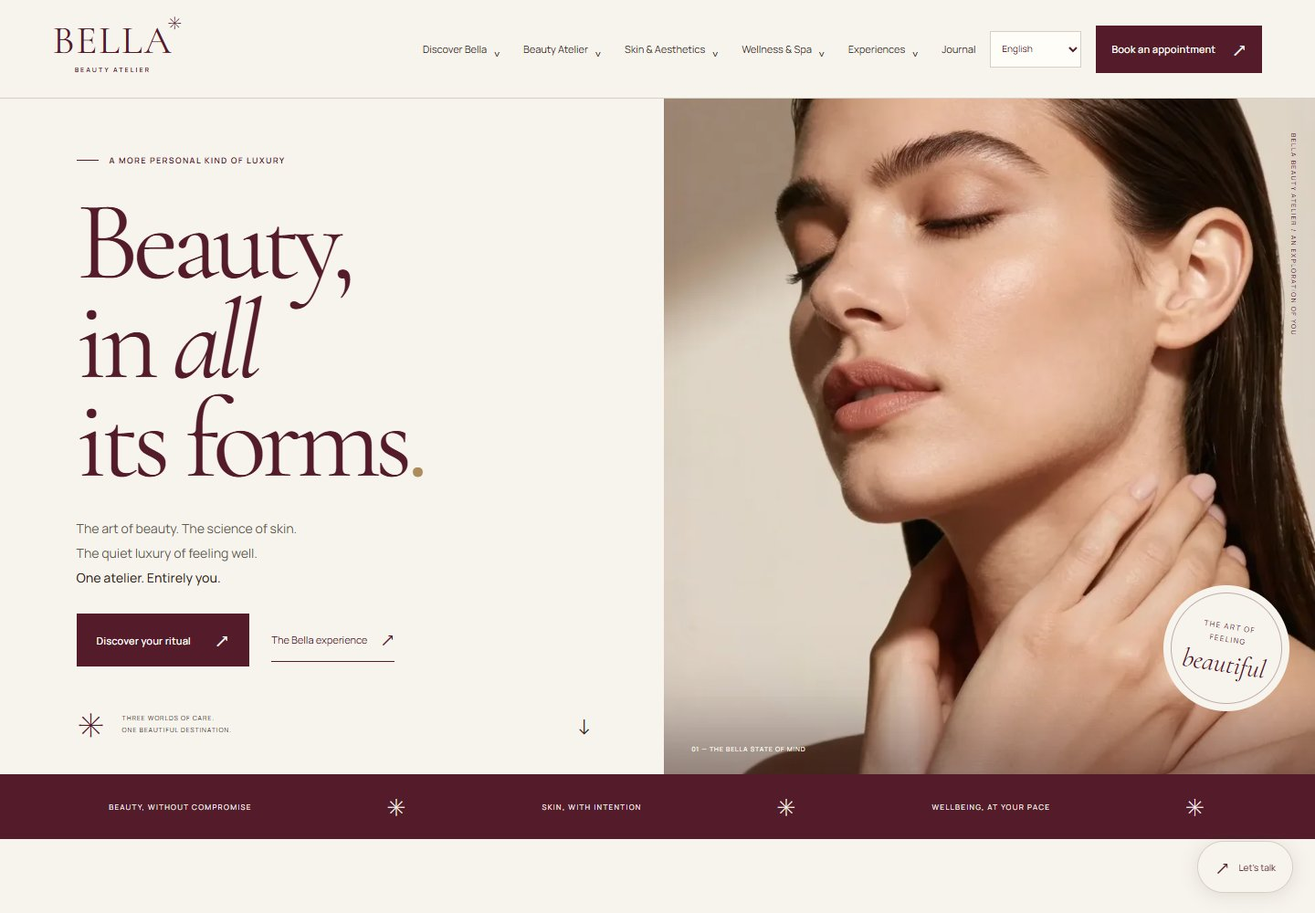
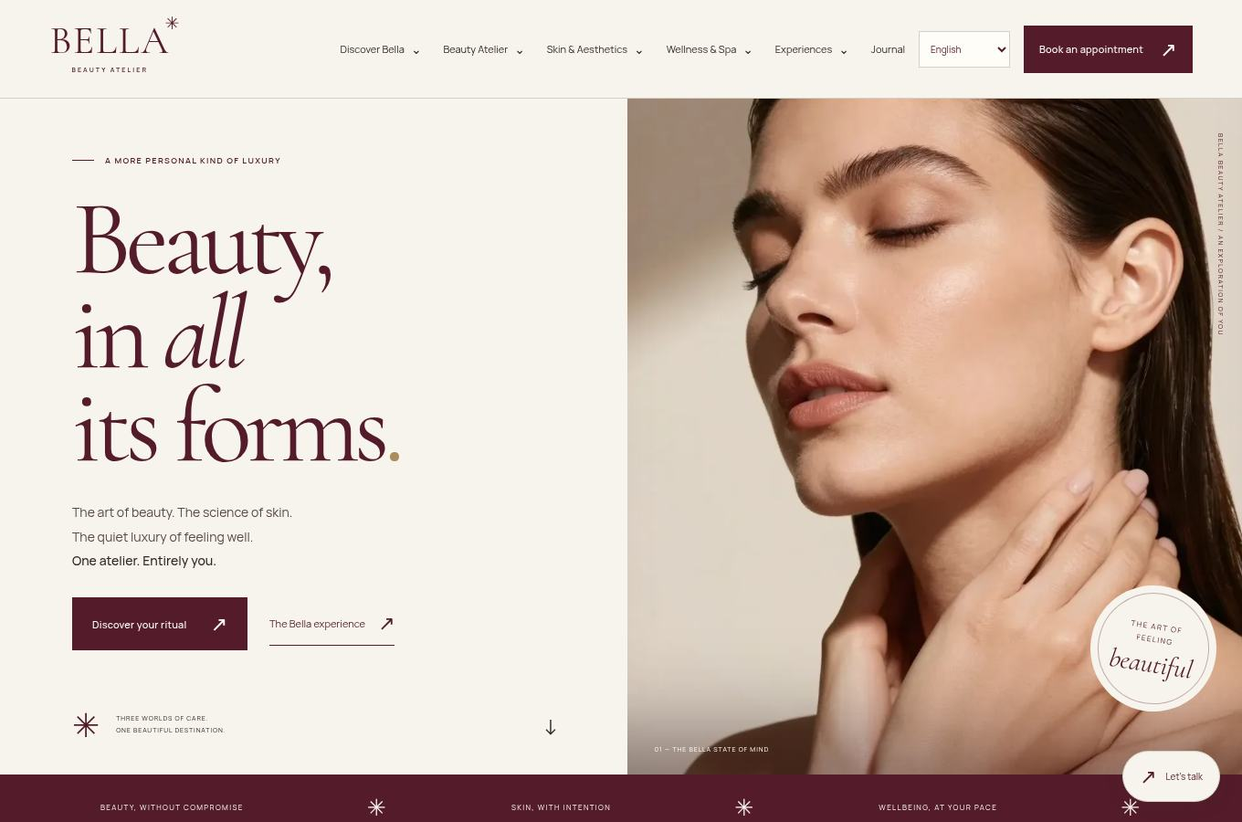
Expand full Wikcia portfolio with authentic screenshots (#2)
* Expand portfolio with real DearRose, KERN and ATLAS captures, full project gallery and engineering archive

* Refresh every public portfolio homepage capture and use branded live domains

diff --git a/src/pages/ExperiencePages.tsx b/src/pages/ExperiencePages.tsx
@@ -6,7 +6,9 @@ import { ProjectPreview, Workflow } from '@/pages/ExperienceHome';
 
 export function PageIntro({eyebrow,title,description,accent}:{eyebrow:string;title:string;description:string;accent?:string}){return <div className="page-intro section-pad"><span className="eyebrow">{eyebrow}</span><h1>{title}{accent&&<><br/><span className="serif-word">{accent}</span></>}</h1><p>{description}</p></div>}
 export function AboutPage(){return <><PageIntro eyebrow="INSIDE WIKCIA / THE IDEA" title="An imaginative mind." accent="A practical instinct." description="Wikcia is an expanding family of agentic software and business applications by Love & Pixels. Our work connects creative direction, software engineering and practical automation."/><section className="about-editorial section-pad"><div className="about-emblem"><img src="/logo.png" alt="Wikcia’s folded pearl-and-lavender ribbon mark with a lime orb" width="600" height="600"/><span className="eyebrow">A CONTINUOUS THREAD / MANY POSSIBILITIES</span></div><div className="prose"><h2>More than a conversation.</h2><p className="lead">The interesting part isn’t that I can talk about the work. It’s that I can help do it.</p><p>Wikcia Studio connects an assistant with the applications, tools and working context needed to create useful outcomes. That can mean designing a website, exploring a question, writing and testing software, processing media or connecting a repeated business workflow.</p><p>Some work happens through native tools. Some uses supported application adapters or authorised integrations. The available capabilities depend on the real environment—not on a promise that every tool is always connected.</p><Link to="/tools" className="text-link">Look inside the toolkit <Arrow/></Link></div></section><section className="about-principles section-pad" id="principles"><span className="eyebrow">THE PRINCIPLES / NOT OPTIONAL EXTRAS</span><h2>Powerful should still<br/><span className="serif-word">feel considered.</span></h2><div className="principle-rows"><article><span>01</span><h3>Show the work.</h3><p>A source, an artifact, a test, a result. Evidence matters more than a confident completion message.</p></article><article><span>02</span><h3>Keep people in control.</h3><p>Prepare and automate within scope. Ask before spending, making sensitive changes or taking important irreversible actions.</p></article><article><span>03</span><h3>Be precise about privacy.</h3><p>Local and cloud are different paths. The model, the conversation and each connected service all matter.</p></article><article><span>04</span><h3>Make it coherent.</h3><p>Design and engineering belong in the same conversation. A useful thing should work well and feel right.</p></article></div></section><section className="foundation section-pad"><span className="eyebrow">THE FOUNDATION / WITH CREDIT</span><h2>Made by Love & Pixels.<br/>Built on good foundations.</h2><div className="foundation-copy"><p>Wikcia Studio is Love & Pixels’ customised creative and automation environment. Its technical foundation is Hermes Agent, developed by Nous Research. The Wikcia identity, workflows and extensions build on that foundation.</p><div><a className="text-link" href="https://byloveandpixels.com" target="_blank" rel="noopener noreferrer">Meet Love & Pixels <Arrow/></a><a className="text-link" href="https://hermes-agent.nousresearch.com/" target="_blank" rel="noopener noreferrer">Explore Hermes Agent <Arrow/></a></div></div></section></>}
-export function ShowcasePage(){return <><PageIntro eyebrow="SELECTED WORK / THE LOVE & PIXELS UNIVERSE" title="Proof of imagination." accent="Room to explore." description="Different briefs deserve different worlds. A selection of studio work and digital concepts, shown as they actually exist—not as stock-photo placeholders."/><div className="showcase-grid section-pad">{projects.map((p,i)=><ProjectPreview key={p.id} index={i} large={i===0}/>)}</div><section className="section-pad"><span className="eyebrow">CLIENT ENGINEERING / SOFTWARE DELIVERY</span><article className="eco-case"><div><span className="eyebrow">MULTILINGUAL COMMERCE / CLIENT REVIEW BUILD</span><h3>Custom embroidery commerce.</h3><p>A multilingual storefront and owner administration system built around personalised products and configurable merchandise.</p><p className="eco-evidence">Review-stage implementation; merchant onboarding and live checkout are separate launch gates. Client identity and private screenshots withheld pending publication clearance.</p></div><div><h3>What was built</h3><ul><li>Polish, Dutch and English storefront and administration</li><li>Product customisation and draft catalogue</li><li>Owner authentication and product / website management</li><li>Dedicated database and controlled payment integration</li></ul><Link className="text-link" to="/contact?interest=Commerce%20platform">Discuss a commerce project <Arrow/></Link></div></article></section><div className="portfolio-footnote section-pad"><span className="eyebrow">AN HONEST FOOTNOTE</span><p>The public concept cards use existing website captures and links. The commerce project is a review-stage implementation; private client evidence is not published. Concept projects are labelled individually. They demonstrate design and engineering, not real commercial appointments, customer results or measured revenue.</p></div></>}
+const portfolioLabs=[{name:'LPX AI Design Station',kind:'Local MVP / applied AI',description:'Project workspaces, bounded local model execution, reviewable artifacts, module management and a personalised website studio with exportable multi-page builds.'},{name:'Still & Co.',kind:'Local concept / cleaning services',description:'Five routed pages, original procedural 3D living room, accessible navigation and a validated local quote demonstration.'},{name:'VANTA Motor',kind:'Source archive / automotive concept',description:'Fictional automotive web experience, preserved as a private source snapshot. No live inventory or dealership operation claimed.'},{name:'LPX Swarm',kind:'Engineering research / orchestration',description:'Python-based orchestration source and unit-test foundation; an internal engineering project rather than a hosted product.'},{name:'Wikcia Studio Installer',kind:'Distribution engineering',description:'Windows installation scripts, pinned payload checksums, release locking and recovery components. Installation access is handled separately.'}];
+function PortfolioLab(){return <section className="section-pad portfolio-lab"><span className="eyebrow">ENGINEERING ARCHIVE / LOCAL &amp; PRIVATE BUILDS</span><h2>More beneath the surface.</h2><p>Additional documented projects in our engineering portfolio. These are not presented as public deployments; screenshots are withheld where no safe public interface is available.</p><div className="portfolio-lab-grid">{portfolioLabs.map(p=><article key={p.name}><span className="eyebrow">{p.kind}</span><h3>{p.name}</h3><p>{p.description}</p></article>)}</div></section>}
+export function ShowcasePage(){const [filter,setFilter]=useState('All');const filters=['All','AI & SaaS','Commerce','Automotive','Beauty','Home services','Studio'];const ids:Record<string,string[]>={'AI & SaaS':['dearrose','referrals'],Commerce:['kern'],Automotive:['onyx'],Beauty:['bella'],'Home services':['atlas'],Studio:['love-and-pixels']};const shown=projects.map((p,i)=>({p,i})).filter(({p})=>filter==='All'||ids[filter]?.includes(p.id));return <><PageIntro eyebrow="PORTFOLIO / THE LOVE & PIXELS UNIVERSE" title="The work." accent="Real interfaces." description="Our products, client projects, digital concepts and engineering research. Explore the actual sites and the systems we build behind them."/><section className="section-pad portfolio-gallery"><div className="eco-filters" aria-label="Filter portfolio">{filters.map(f=><button key={f} onClick={()=>setFilter(f)} aria-pressed={filter===f}>{f}</button>)}</div><p className="portfolio-count" role="status">{shown.length} public showcase{shown.length===1?"":"s"}</p><div className="showcase-grid portfolio-grid">{shown.map(({p,i},n)=><ProjectPreview key={p.id} index={i} large={n===0}/>)}</div></section><section className="section-pad"><span className="eyebrow">CLIENT ENGINEERING / SOFTWARE DELIVERY</span><article className="eco-case"><div><span className="eyebrow">MULTILINGUAL COMMERCE / CLIENT REVIEW BUILD</span><h3>Custom embroidery commerce.</h3><p>A multilingual storefront and owner administration system built around personalised products and configurable merchandise.</p><p className="eco-evidence">Review-stage implementation; merchant onboarding and live checkout are separate launch gates. Client identity and private screenshots withheld pending publication clearance.</p></div><div><h3>What was built</h3><ul><li>Polish, Dutch and English storefront and administration</li><li>Product customisation and draft catalogue</li><li>Owner authentication and product / website management</li><li>Dedicated database and controlled payment integration</li></ul><Link className="text-link" to="/contact?interest=Commerce%20platform">Discuss a commerce project <Arrow/></Link></div></article></section><PortfolioLab/><div className="portfolio-footnote section-pad"><span className="eyebrow">AN HONEST FOOTNOTE</span><p>Public showcase cards use actual website captures and direct links. DearRose, KERN, ATLAS, ONYX, Bella and Love & Pixels were captured on 25 November 2026. The commerce project is a review-stage implementation; private client evidence is not published. Concept projects are labelled individually. Concepts demonstrate design and engineering, not real commercial appointments, customer results or measured revenue.</p></div></>}
 export function CapabilitiesPage(){const [params,setParams]=useSearchParams();const category=params.get('category')||'All';const [search,setSearch]=useState('');const filtered=capabilities.filter(c=>(category==='All'||c.category===category)&&(c.name+' '+c.detail+' '+c.tools).toLowerCase().includes(search.toLowerCase()));return <><PageIntro eyebrow="CAPABILITIES / A CONNECTED PRACTICE" title="One mind." accent="More ways to make." description="Not a collection of disconnected tricks. A connected approach to creative work, engineering, research and the systems in between."/><section className="directory section-pad"><div className="directory-controls"><div className="filter-buttons" aria-label="Filter capabilities">{['All','Create','Build','Discover','Connect'].map(c=><button key={c} aria-pressed={category===c} onClick={()=>setParams(c==='All'?{}:{category:c})}>{c}</button>)}</div><label className="directory-search"><span className="sr-only">Search capabilities</span><input type="search" placeholder="Find a capability…" value={search} onChange={e=>setSearch(e.target.value)}/><span aria-hidden="true">⌕</span></label></div><p className="directory-count" role="status">{filtered.length} {filtered.length===1?'capability':'capabilities'} / {category}</p><div className="capability-directory">{filtered.map((c,i)=><article key={c.name}><span className="directory-index">{String(i+1).padStart(2,'0')}</span><div><span className="eyebrow">{c.category}</span><h2>{c.name}</h2></div><div><p>{c.detail}</p><span className="capability-tools">{c.tools}</span></div><Link to={`/contact?interest=${encodeURIComponent(c.name)}`} aria-label={`Discuss ${c.name}`}><Arrow/></Link></article>)}{!filtered.length&&<div className="directory-empty"><h2>No matching capabilities.</h2><p>Try another phrase, or clear your filters.</p><button className="button button-dark" onClick={()=>{setSearch('');setParams({});}}>Clear filters</button></div>}</div><p className="quiet-note">Specific applications and services require a compatible installation, credentials and permission. This directory describes areas of work—not a live integration status board.</p></section></>}
 const toolkit=[{number:'01',name:'Think & investigate',intro:'The context comes first.',items:[['Web & browser tools','Search, inspect sources, navigate real pages and exercise browser flows.'],['Document tools','Extract and structure PDFs, office documents and spreadsheets.'],['Model routing','Use supported local or cloud inference paths with explicit privacy boundaries.']]},{number:'02',name:'Create & build',intro:'Ideas need a real medium.',items:[['Creative applications','Supported image, vector, layout, audio and video workflows through native adapters.'],['Code & verification','Source files, version control, builds and tests against actual implementations.'],['Spatial experiences','Original geometry, Three.js and browser graphics for interactive digital work.']]},{number:'03',name:'Connect & operate',intro:'The parts should work together.',items:[['MCP integrations','Structured access to supported services; authentication and tool availability are separate gates.'],['Application Hub','A way to discover, launch and inspect supported applications inside Wikcia Studio.'],['Repeatable workflows','Connect steps with validation, observable results and approval at consequential moments.']]}];
 export function ToolkitPage(){return <><PageIntro eyebrow="THE TOOLKIT / CHOSEN WITH INTENTION" title="Good tools." accent="Better together." description="The useful part is not how many applications you can name. It’s whether the right ones can do the actual work, safely and coherently."/><section className="toolkit section-pad">{toolkit.map(t=><article key={t.number}><div><span className="eyebrow">{t.number} / TOOL FAMILY</span><h2>{t.name}</h2><p>{t.intro}</p></div><div>{t.items.map(([title,detail])=><div className="toolkit-item" key={title}><h3>{title}</h3><p>{detail}</p></div>)}</div></article>)}<div className="boundary-note"><span className="eyebrow">CONNECTION IS NOT PERMISSION.</span><p>A tool being installed is not proof of a working integration. A configured account is not authority to act. Available actions depend on the running environment, authentication and your approved scope.</p></div></section></>}

diff --git a/src/pages/ExperienceHome.tsx b/src/pages/ExperienceHome.tsx
@@ -6,7 +6,7 @@ import { Workbench } from '@/experience/Workbench';
 const SignalScene=lazy(()=>import('@/experience/SignalScene'));
 
 export function Sculpture(){const ref=useRef<HTMLDivElement>(null);const [ready,setReady]=useState(false);useEffect(()=>{const obs=new IntersectionObserver(entries=>{if(entries.some(e=>e.isIntersecting)){setReady(true);obs.disconnect();}},{rootMargin:'200px'});if(ref.current)obs.observe(ref.current);return()=>obs.disconnect();},[]);return <div ref={ref} className="sculpture-mount">{ready?<Suspense fallback={<div className="sculpture-loading"><img src="/logo.png" alt="Wikcia ribbon emblem"/><span className="eyebrow">PREPARING THE RIBBON STUDY</span></div>}><SignalScene/></Suspense>:<div className="sculpture-loading"><img src="/logo.png" alt="Wikcia ribbon emblem"/></div>}</div>}
-export function ProjectPreview({index=0,large=false}:{index?:number;large?:boolean}){const p=projects[index];return <article className={`project-preview ${large?'project-large':''}`}><a className="project-image-link" href={p.url} target="_blank" rel="noopener noreferrer" aria-label={`Visit ${p.name} website (opens in new tab)`}><div className="project-image"><img src={p.image} alt={`${p.name} — actual website homepage`} width="1440" height="1000" loading="lazy"/><span className="project-open"><Arrow/></span></div></a><div className="project-meta"><div><span className="eyebrow">{p.kind}</span><h3><a href={p.url} target="_blank" rel="noopener noreferrer">{p.name} <Arrow/></a></h3></div><span className="project-number">0{index+1}</span></div><p className="project-description">{p.description}</p><div className="project-tags">{p.tags.map(t=><span key={t}>{t}</span>)}</div><p className="project-disclosure">{p.note}</p></article>}
+export function ProjectPreview({index=0,large=false}:{index?:number;large?:boolean}){const p=projects[index];return <article className={`project-preview ${large?'project-large':''}`}><a className="project-image-link" href={p.url} target="_blank" rel="noopener noreferrer" aria-label={`Visit ${p.name} website (opens in new tab)`}><div className="project-image"><img src={p.image} alt={`${p.name} — actual website homepage`} width={1360} height={900} loading="lazy"/><span className="project-open"><Arrow/></span></div></a><div className="project-meta"><div><span className="eyebrow">{p.kind}</span><h3><a href={p.url} target="_blank" rel="noopener noreferrer">{p.name} <Arrow/></a></h3></div><span className="project-number">{String(index+1).padStart(2,"0")}</span></div><p className="project-description">{p.description}</p><div className="project-tags">{p.tags.map(t=><span key={t}>{t}</span>)}</div><p className="project-disclosure">{p.note}</p></article>}
 export function Workflow(){const [active,setActive]=useState(0);const story=workflowStories[active];return <section className="workflow-section section-pad" id="how-it-works"><div className="section-heading"><span className="eyebrow">03 / THE WORK BEHIND THE WORDS</span><div className="heading-row"><h2>Not just an answer.<br/><span className="muted-type">A way forward.</span></h2><p>I connect the thinking to the doing.<br/>A clear brief. The right tools. A result<br className="desktop-break"/> you can actually inspect.</p></div></div><div className="workflow-layout"><div className="workflow-choices" role="tablist" aria-label="Explore example workflows">{workflowStories.map((s,i)=><button key={s.id} id={`workflow-tab-${s.id}`} role="tab" aria-selected={active===i} aria-controls="workflow-panel" tabIndex={active===i?0:-1} onKeyDown={e=>{if(e.key==='ArrowDown'||e.key==='ArrowRight'||e.key==='ArrowUp'||e.key==='ArrowLeft'){e.preventDefault();const next=(active+(e.key==='ArrowDown'||e.key==='ArrowRight'?1:2))%3;setActive(next);document.getElementById(`workflow-tab-${workflowStories[next].id}`)?.focus();}}} onClick={()=>setActive(i)}><span>0{i+1}</span>{s.name}<Arrow/></button>)}<p className="workflow-note">Illustrative process, not a running job.<br/>Tools and permissions depend on setup.</p></div><div className="workflow-panel" id="workflow-panel" role="tabpanel" aria-labelledby={`workflow-tab-${story.id}`}><p className="workflow-prompt">{story.prompt}</p><ol className="workflow-steps">{story.stages.map(([n,title,detail])=><li key={title}><span>{n}</span><div><h3>{title}</h3><p>{detail}</p></div></li>)}</ol><div className="workflow-outcome"><span className="signal-light"/>{story.outcome}</div></div></div></section>}
 export function HomePage(){return <>
  <section className="hero" aria-labelledby="hero-title"><div className="hero-eyebrow"><span className="eyebrow"><span className="signal-light"/> WIKCIA / CREATIVE INTELLIGENCE</span><span className="hero-edition eyebrow">BY LOVE & PIXELS — AN OPEN EXPLORATION</span></div><div className="hero-layout"><div className="hero-copy"><h1 id="hero-title">Imagine<br/>anything<span className="headline-dot">.</span><br/><span className="hero-final">Make it real.</span></h1><p>I’m Wikcia. A creative mind with a practical side.<br className="desktop-break"/> I bring design, code, research and automation<br className="desktop-break"/> together to turn your ideas into working things.</p><div className="hero-links"><a className="button button-dark" href="#playground">Explore the possibilities <Arrow/></a><Link className="text-link" to="/about">A little about me <Arrow/></Link></div></div><div className="hero-art"><Sculpture/></div></div><div className="hero-baseline"><span>ONE CONNECTED MIND. MANY WAYS TO MAKE.</span><a href="#possibilities">TAKE A CLOSER LOOK <span>↓</span></a><span className="hero-coordinate">DESIGN × INTELLIGENCE × EXECUTION</span></div></section>

diff --git a/src/content.ts b/src/content.ts
@@ -1,7 +1,11 @@
 export const projects = [
-  { id: 'onyx', name: 'ONYX Auto Studio', kind: 'Automotive / digital concept', description: 'A cinematic world of light, reflection and material. Automotive storytelling meets an interactive surface lab.', image: '/work/onyx.jpg', url: 'https://onyx-auto-studio-iota.vercel.app', tags: ['Art direction', 'Interactive 3D', 'Multilingual'], note: 'Fictional automotive concept by Love & Pixels. Illustrative stock and generated imagery; not a client case study.' },
-  { id: 'bella', name: 'Bella Beauty Atelier', kind: 'Beauty / digital concept', description: 'An editorial beauty experience with distinct worlds for beauty, skin and wellbeing. Considered down to the last interaction.', image: '/work/bella.jpg', url: 'https://bella-beauty-atelier.vercel.app', tags: ['Digital identity', 'Experience design', 'Web engineering'], note: 'Beauty and wellness concept by Love & Pixels. A demonstration, not a real salon or commercial booking service.' },
+  { id: 'onyx', name: 'ONYX Auto Studio', kind: 'Automotive / digital concept', description: 'A cinematic world of light, reflection and material. Automotive storytelling meets an interactive surface lab.', image: '/work/onyx.jpg', url: 'https://auto.byloveandpixels.com', tags: ['Art direction', 'Interactive 3D', 'Multilingual'], note: 'Fictional automotive concept by Love & Pixels. Illustrative stock and generated imagery; not a client case study.' },
+  { id: 'bella', name: 'Bella Beauty Atelier', kind: 'Beauty / digital concept', description: 'An editorial beauty experience with distinct worlds for beauty, skin and wellbeing. Considered down to the last interaction.', image: '/work/bella.jpg', url: 'https://beauty.byloveandpixels.com', tags: ['Digital identity', 'Experience design', 'Web engineering'], note: 'Beauty and wellness concept by Love & Pixels. A demonstration, not a real salon or commercial booking service.' },
   { id: 'love-and-pixels', name: 'Love & Pixels', kind: 'Creative technology / studio', description: 'The studio behind Wikcia. A connected home for design, engineering and practical AI, built around human ambition.', image: '/work/love-and-pixels.jpg', url: 'https://byloveandpixels.com', tags: ['Brand experience', 'Spatial storytelling', 'Creative technology'], note: 'Love & Pixels studio website. Preview captured from the public website; no commercial performance claims.' },
+  { id: 'dearrose', name: 'DearRose.ai', kind: 'AI platform / client project', description: 'An emotionally considered companion and literary experience. Work spans a conversational interface, companion experiences, account and memory architecture, and graphical identity.', image: '/work/dearrose.jpg', url: 'https://dearrose.ai', tags: ['AI companion', 'UX & identity', 'Platform engineering'], note: 'Public DearRose homepage captured on 25 November 2026. Separate redevelopment remains in review; the live site is not evidence that every new feature has launched.' },
+  { id: 'kern', name: 'KERN® — Objects From Elsewhere', kind: 'Commerce / interactive concept', description: 'A premium editorial shop with original generated product imagery, a shoppable catalogue, variants, wishlist, cart, demo checkout and an interactive object lab.', image: '/work/kern.jpg', url: 'https://shop.byloveandpixels.com', tags: ['E-commerce', 'Product art direction', 'WebGL'], note: 'Fictional concept, actual hosted website. Demonstration orders only; no real payment processing.' },
+  { id: 'atlas', name: 'ATLAS Home Systems', kind: 'Home services / interactive concept', description: 'Six connected trades, a visual home-system explorer, multi-step quote journeys and a responsive lead-generation experience.', image: '/work/atlas.jpg', url: 'https://trades.byloveandpixels.com', tags: ['Lead generation', 'Interactive design', 'Service websites'], note: 'Fictional trade-services showcase, actual hosted website. Example requests are stored locally; no emergency dispatch or real contractor service.' },
+  { id: 'referrals', name: 'Wikcia Referrals', kind: 'SaaS / hosted development preview', description: 'A multilingual growth platform bringing referral links, QR sharing, campaign management, lead tracking and reward workflows into one product.', image: '/product/referrals-preview.jpg', url: 'https://referrals.wikcia.com/en', tags: ['SaaS', 'Referral marketing', 'Multilingual'], note: 'Actual hosted interface capture. Commercial launch and release validation are distinct from the accessible preview.' },
 ];
 
 export const capabilities = [

diff --git a/src/pages/ProductHome.tsx b/src/pages/ProductHome.tsx
@@ -1,6 +1,7 @@
 import { Link } from 'react-router-dom';
 import { Arrow } from '@/components/SiteChrome';
 import { ProjectPreview } from './ExperienceHome';
+import { projects } from '@/content';
 import { ProductIntroduction, ProductTour } from '@/experience/ProductShowcase';
 import { Workbench } from '@/experience/Workbench';
 import { Ecosystem, ServicesBand, Roadmap } from './Ecosystem';
@@ -24,8 +25,8 @@ export function HomePage(){
   <ProductIntroduction/>
   <ProductTour/>
   <section className="selected-section section-pad" id="selected-work">
-   <div className="section-heading"><span className="eyebrow">03 / THE KIND OF WORK WE MAKE</span><div className="heading-row"><h2>Different worlds.<br/>The same care.</h2><div><p>A visual look at what design and engineering can bring together. Actual sites from the Love & Pixels universe—not anonymous stock placeholders.</p><Link className="text-link" to="/showcase">Explore all selected work <Arrow/></Link></div></div></div>
-   <div className="project-grid"><ProjectPreview index={0} large/><ProjectPreview index={1}/><ProjectPreview index={2}/></div>
+   <div className="section-heading"><span className="eyebrow">03 / THE KIND OF WORK WE MAKE</span><div className="heading-row"><h2>Our work.<br/>Built to be explored.</h2><div><p>A visual look at what design and engineering can bring together. Explore our own software, client engineering and interactive digital concepts. Every website card links to a real interface and uses an authentic capture.</p><Link className="text-link" to="/showcase">Explore all selected work <Arrow/></Link></div></div></div>
+   <div className="project-grid">{[3,4,5,0,1,6,2].filter(i=>projects[i]).map((i,n)=><ProjectPreview key={projects[i].id} index={i} large={n===0}/>)}</div>
   </section>
   <ServicesBand/>
   <section className="playground-section section-pad" id="playground">

diff --git a/src/pages/ecosystem.css b/src/pages/ecosystem.css
@@ -7,3 +7,5 @@
 @media(max-width:700px){.eco-section-head,.eco-grid,.eco-roadmap-grid,.eco-case{grid-template-columns:1fr;gap:20px}.eco-section-head{margin-bottom:28px}.eco-card-studio{grid-column:auto}.eco-partner{flex-direction:column;align-items:flex-start}.eco-service-grid{grid-template-columns:1fr}.eco-service-grid article h3{margin:14px 0 8px}.eco-diagram{min-height:230px}.eco-card-content ul{grid-template-columns:1fr 1fr}.eco-hero-art figcaption{flex-wrap:wrap}}
 @media(max-width:390px){.eco-card-content ul{grid-template-columns:1fr}.eco-card-top{padding:12px}.eco-diagram-top{font-size:9px}}
 @media(prefers-reduced-motion:reduce){.eco-section *,.eco-services *,.eco-roadmap *{scroll-behavior:auto!important}}
+
+.portfolio-gallery{padding-top:20px}.portfolio-count{font:12px var(--mono);color:#55594f;margin:18px 0}.portfolio-grid{padding:0!important}.portfolio-lab{background:#e8e7df}.portfolio-lab>h2{font-size:clamp(35px,5vw,68px);margin:18px 0}.portfolio-lab>p{max-width:740px}.portfolio-lab-grid{display:grid;grid-template-columns:repeat(3,minmax(0,1fr));gap:12px;margin-top:30px}.portfolio-lab-grid article{padding:24px;border:1px solid #c7c7bc;background:#f1f0e9}.portfolio-lab-grid h3{font-size:24px;margin:12px 0}.portfolio-lab-grid p{font-size:14px}.portfolio-gallery .project-image img{object-fit:contain;background:#e8e7df}@media(max-width:850px){.portfolio-lab-grid{grid-template-columns:repeat(2,minmax(0,1fr))}}@media(max-width:600px){.portfolio-lab-grid{grid-template-columns:1fr}}
